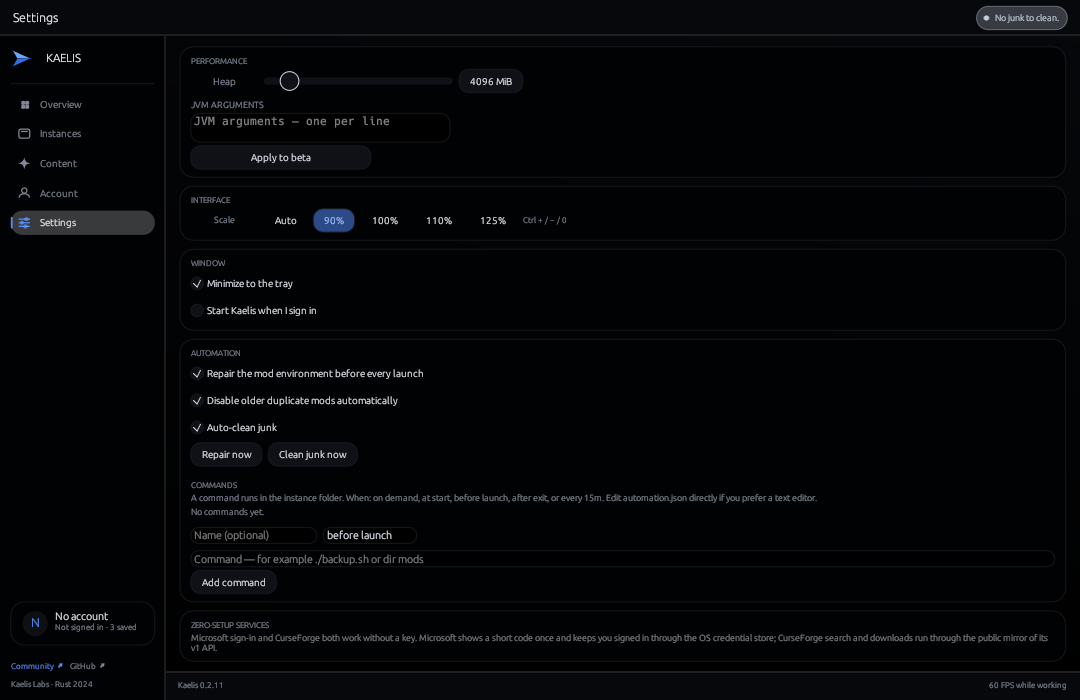
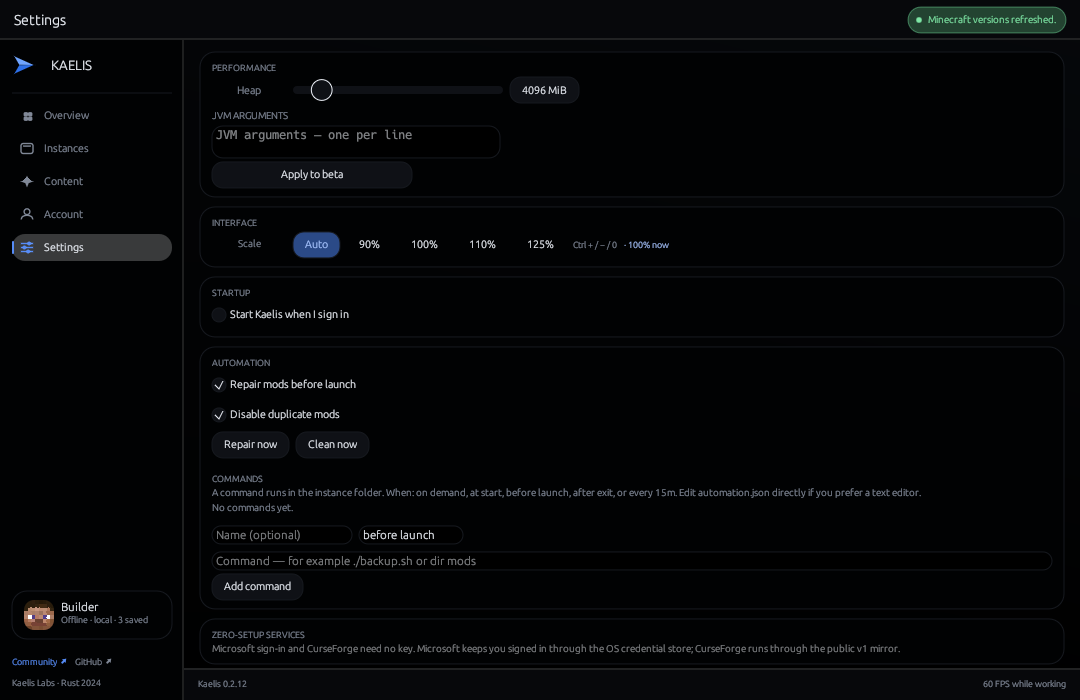
Make tray minimize and junk cleanup permanent, and centre Erase
Tray minimize and Auto Erase Junk are signatures of Kaelis, so a settings
switch that could turn them off was the wrong shape: the two fields are gone,
old saved "off" values are ignored, and both behaviours now always run. The
same edit retires the empty non-Windows window card and shortens the Settings
copy.

The Mod Browse action row top-aligned its labels, so "Erase" sat above the
middle of its capsule while "Install" was centred. Six pixels of vertical
control padding centre both without stretching the row into the scroll area.
The five product screenshots are recaptured from 0.2.12.

🤖 Generated with Codebuff

diff --git a/site/index.html b/site/index.html
@@ -40,7 +40,7 @@
         "applicationSubCategory": "Minecraft launcher",
         "operatingSystem": "Windows 10, Windows 11, macOS 11, Linux",
         "processorRequirements": "x86_64 or arm64",
-        "softwareVersion": "0.2.11",
+        "softwareVersion": "0.2.12",
         "softwareRequirements": "Rust 1.85+ to build from source; Java is provisioned automatically",
         "downloadUrl": "https://fuvji.github.io/kaelis/downloads/Kaelis-Portable.zip",
         "installUrl": "https://fuvji.github.io/kaelis/#downloads",
@@ -424,7 +424,7 @@
     <div class="shell" id="top">
       <section class="hero" aria-labelledby="hero-title">
         <div>
-          <span class="eyebrow"><i></i>v0.2.11 · Windows · macOS · Linux</span>
+          <span class="eyebrow"><i></i>v0.2.12 · Windows · macOS · Linux</span>
           <h1 id="hero-title">Minecraft,<br><em>composed.</em></h1>
           <p class="lede">Instances, mods, packs, shaders, and accounts in one native workspace. Files stay local. Nothing runs in the background.</p>
           <div class="hero-actions">
@@ -598,7 +598,7 @@
         </div>
 
         <div class="downloads-foot">
-          <span><b style="color:var(--text)">New in 0.2.11</b> · Instance cards no longer say <b style="color:var(--text)">Never played</b>: an unstarted instance shows only what it contains, with counts that read naturally (<b style="color:var(--text)">1 pack · 1 world</b>, never <i>1 packs</i>). Auto Erase Junk also clears ReplayMod's frame cache, the stray Forge and NeoForge root logs, and Windows' <code>ehthumbs.db</code> thumbnail cache — while saves, recordings, mods, configs, screenshots, and unknown folders always survive. The freed chip keeps the content row on one baseline, so a long instance list scans faster. Everything from 0.2.10 remains: one-click checksum-verified self-update on Windows, the dark three-action tray, tray minimize, the shared file store, and an event-driven 0.00% idle cost.</span>
+          <span><b style="color:var(--text)">New in 0.2.12</b> · Tray minimize and <b style="color:var(--text)">Auto Erase Junk</b> are now permanent parts of Kaelis: the Settings switches are gone, an old saved “off” is ignored, and both always run. On Windows, minimize hides to the tray; junk is erased at every start and after every game. The Mod Browse <b style="color:var(--text)">Erase</b> label now sits exactly in the centre of its capsule, the action row centres Install and Erase together, and Settings copy is shorter. Everything from 0.2.11 remains: quieter instance cards, ReplayMod and Forge log cleanup, one-click checksum-verified Windows updates, the dark tray, the shared file store, and 0.00% idle cost.</span>
           <span>Every tag builds all three platforms in CI and publishes checksums.</span>
           <a href="downloads/KAELIS-LINKS.txt">URL &amp; install index ↗</a>
           <a href="https://github.com/fuvji/kaelis/releases/latest" rel="noreferrer">All releases ↗</a>

diff --git a/crates/kaelis-gui/src/lib.rs b/crates/kaelis-gui/src/lib.rs
@@ -1112,10 +1112,6 @@ pub struct KaelisApp {
     modpack_task: Option<tokio::task::JoinHandle<()>>,
     /// Invalidates progress and completion events from a cancelled import.
     modpack_generation: u64,
-    /// Remove logs, crash reports, and staging files at every launch.
-    auto_clean_junk: bool,
-    /// The title-bar minimize button hides the window to the tray.
-    minimize_to_tray: bool,
     /// A per-user sign-in entry starts Kaelis hidden in the tray.
     launch_at_startup: bool,
     /// The window is hidden because a game started, not by the user. Only this
@@ -1268,7 +1264,6 @@ impl KaelisApp {
         // be installed before that menu is created.
         platform::enable_dark_menus();
         let launcher_settings = load_settings();
-        platform::set_minimize_to_tray(launcher_settings.minimize_to_tray);
         if launcher_settings.launch_at_startup {
             // A portable folder that was moved leaves the old path behind;
             // rewriting it at start keeps the sign-in entry pointing here.
@@ -1538,8 +1533,6 @@ impl KaelisApp {
             modpack_detail: String::new(),
             modpack_task: None,
             modpack_generation: 0,
-            auto_clean_junk: launcher_settings.auto_clean,
-            minimize_to_tray: launcher_settings.minimize_to_tray,
             launch_at_startup: launcher_settings.launch_at_startup,
             update_report: None,
             updates_busy: false,
@@ -1563,9 +1556,7 @@ impl KaelisApp {
         if app.accounts.is_empty() {
             app.scan_for_accounts(&creation.egui_ctx, false);
         }
-        if app.auto_clean_junk {
-            app.clean_junk_now(creation.egui_ctx.clone());
-        }
+        app.clean_junk_now(creation.egui_ctx.clone());
         app.refresh_instance_cards();
         if let Some(id) = app.selected_instance.clone() {
             app.select_instance(&id);
@@ -3239,9 +3230,6 @@ impl KaelisApp {
     /// Sweep one instance once its game has exited, so the session's logs,
     /// caches, and crash dumps never outlive the process that wrote them.
     fn clean_finished_instance(&self, instance_id: &str, context: &egui::Context) {
-        if !self.auto_clean_junk {
-            return;
-        }
         let Some(root) = self
             .instances
             .iter()
@@ -3763,8 +3751,6 @@ impl KaelisApp {
             account_mode: Some(self.account_mode),
             auto_repair: self.auto_repair_before_launch,
             auto_resolve_duplicates: self.auto_resolve_duplicates,
-            auto_clean: self.auto_clean_junk,
-            minimize_to_tray: self.minimize_to_tray,
             launch_at_startup: self.launch_at_startup,
             content_kind: self.content_kind,
             offline_account: self
@@ -9344,6 +9330,12 @@ impl KaelisApp {
                                 }
                             });
                             ui.with_layout(egui::Layout::right_to_left(egui::Align::Min), |ui| {
+                                // A top-aligned row places a button label four
+                                // pixels below its box top, which lifts every
+                                // action off the capsule's centre line. Six
+                                // pixels of vertical padding centre the ink in
+                                // the 26 px control without stretching the row.
+                                ui.spacing_mut().button_padding.y = 6.0;
                                 // One action per row: Install, or Erase once the
                                 // project is present. Erasing flips the row back
                                 // to Install on the next scan.
@@ -10968,25 +10960,15 @@ impl KaelisApp {
                 }
             }
         });
-        ui.add_space(6.0);
-        Self::glass_frame().show(ui, |ui| {
-            ui.set_width(ui.available_width());
-            section_label(ui, "WINDOW");
-            if cfg!(windows) {
-                if ui
-                    .checkbox(&mut self.minimize_to_tray, "Minimize to the tray")
-                    .on_hover_text(
-                        "The title-bar minimize button hides Kaelis to the notification area and gives its pages back. Turn this off to minimize to the taskbar instead.",
-                    )
-                    .changed()
-                {
-                    platform::set_minimize_to_tray(self.minimize_to_tray);
-                    save_automation = true;
-                }
+        if cfg!(windows) {
+            ui.add_space(6.0);
+            Self::glass_frame().show(ui, |ui| {
+                ui.set_width(ui.available_width());
+                section_label(ui, "STARTUP");
                 if ui
                     .checkbox(&mut self.launch_at_startup, "Start Kaelis when I sign in")
                     .on_hover_text(
-                        "Adds one per-user startup entry. Kaelis opens hidden in the tray, so signing in never shows a window or a splash screen.",
+                        "One per-user entry opens Kaelis hidden in the tray. No service and no delay.",
                     )
                     .changed()
                 {
@@ -11001,16 +10983,8 @@ impl KaelisApp {
                         }
                     }
                 }
-            } else {
-                ui.label(
-                    egui::RichText::new(
-                        "Tray minimize and sign-in startup are Windows features; on this host the window uses the system tray and login items.",
-                    )
-                    .size(9.5)
-                    .color(MUTED),
-                );
-            }
-        });
+            });
+        }
         ui.add_space(6.0);
         Self::glass_frame().show(ui, |ui| {
             ui.set_width(ui.available_width());
@@ -11018,32 +10992,16 @@ impl KaelisApp {
             if ui
                 .checkbox(
                     &mut self.auto_repair_before_launch,
-                    "Repair the mod environment before every launch",
+                    "Repair mods before launch",
                 )
-                .on_hover_text(
-                    "Scans the instance's mods, installs missing required mods (for example ukulib for uku's Armor HUD), then launches.",
-                )
+                .on_hover_text("Installs missing required mods before the JVM starts.")
                 .changed()
             {
                 save_automation = true;
             }
             if ui
-                .checkbox(
-                    &mut self.auto_resolve_duplicates,
-                    "Disable older duplicate mods automatically",
-                )
-                .on_hover_text(
-                    "Keeps the newest jar when a mod id is duplicated.",
-                )
-                .changed()
-            {
-                save_automation = true;
-            }
-            if ui
-                .checkbox(&mut self.auto_clean_junk, "Auto-clean junk")
-                .on_hover_text(
-                    "Clears logs, crash dumps, loader caches, interrupted downloads, launcher leftovers, and typed-command history at launch and after every game. Saves, mods, configs, screenshots, and folders Kaelis does not recognise are never touched.",
-                )
+                .checkbox(&mut self.auto_resolve_duplicates, "Disable duplicate mods")
+                .on_hover_text("Keeps the newest jar when two mods share an id.")
                 .changed()
             {
                 save_automation = true;
@@ -11053,10 +11011,8 @@ impl KaelisApp {
                     self.repair_mod_environment(ui.ctx().clone());
                 }
                 if ui
-                    .button("Clean junk now")
-                    .on_hover_text(
-                        "Clear known junk now. Unknown folders are kept.",
-                    )
+                    .button("Clean now")
+                    .on_hover_text("Erase known junk now. Unknown folders stay.")
                     .clicked()
                 {
                     self.clean_junk_now(ui.ctx().clone());
@@ -11075,7 +11031,7 @@ impl KaelisApp {
             section_label(ui, "ZERO-SETUP SERVICES");
             ui.label(
                 egui::RichText::new(
-                    "Microsoft sign-in and CurseForge both work without a key. Microsoft shows a short code once and keeps you signed in through the OS credential store; CurseForge search and downloads run through the public mirror of its v1 API.",
+                    "Microsoft sign-in and CurseForge need no key. Microsoft keeps you signed in through the OS credential store; CurseForge runs through the public v1 mirror.",
                 )
                 .small()
                 .weak(),
@@ -11243,6 +11199,17 @@ impl eframe::App for KaelisApp {
             && std::env::var_os("KAELIS_SCREENSHOT_PASTE").is_some()
         {
             self.paste_clipboard_artwork(context);
+        }
+        // Development-only fixture: a capture window cannot reliably own
+        // keyboard focus, so a Content query can be requested here and still
+        // travel the real search path.
+        if self.screenshot_path.is_some()
+            && self.screenshot_frame == 1
+            && let Ok(query) = std::env::var("KAELIS_SCREENSHOT_QUERY")
+            && !query.trim().is_empty()
+        {
+            self.mod_query = query;
+            self.start_mod_search(context.clone());
         }
         // Development-only fixture: a native file picker cannot be scripted
         // from a capture run, so the icon it would return can be supplied here
@@ -14160,7 +14127,6 @@ mod tests {
             with_zoom.content_kind,
             kaelis_api::mods::ContentKind::Modpack
         );
-        assert!(!with_zoom.auto_clean);
     }
 
     #[test]

diff --git a/crates/kaelis-api/src/accounts.rs b/crates/kaelis-api/src/accounts.rs
@@ -116,11 +116,6 @@ pub struct LauncherSettings {
     /// cleanup is provably safe.
     #[serde(default = "default_auto_repair")]
     pub auto_resolve_duplicates: bool,
-    /// Delete logs, caches, crash dumps, extracted natives, and staging files
-    /// from every instance at launch and after each game exits. Saves, mods,
-    /// and configuration are never included.
-    #[serde(default = "default_auto_repair")]
-    pub auto_clean: bool,
     /// Last Content channel, so the tab reopens where the user left it.
     #[serde(default)]
     pub content_kind: ContentKind,
@@ -143,11 +138,6 @@ pub struct LauncherSettings {
     /// user's Ctrl +/- (or the Settings control) replaces it.
     #[serde(default)]
     pub ui_scale: f32,
-    /// The title-bar minimize button hides the window to the notification
-    /// area instead of the taskbar. On by default: a launcher is a background
-    /// app and does not need a taskbar slot while it is not in use.
-    #[serde(default = "default_auto_repair")]
-    pub minimize_to_tray: bool,
     /// Start Kaelis when the user signs in, already hidden in the tray. The
     /// shortcut is a per-user registry value, so no service or elevation is
     /// involved and login is not delayed by a task scheduler.
@@ -165,13 +155,11 @@ impl Default for LauncherSettings {
             last_account: String::new(),
             auto_repair: default_auto_repair(),
             auto_resolve_duplicates: default_auto_repair(),
-            auto_clean: default_auto_repair(),
             content_kind: ContentKind::Mod,
             offline_account: String::new(),
             account_mode: None,
             accounts: Vec::new(),
             ui_scale: 0.0,
-            minimize_to_tray: true,
             launch_at_startup: false,
         }
     }
@@ -436,16 +424,17 @@ mod tests {
     }
 
     #[test]
-    fn window_preferences_default_to_tray_and_no_startup() {
+    fn retired_window_flags_do_not_break_old_settings() {
         let defaults = LauncherSettings::default();
-        assert!(defaults.minimize_to_tray);
         assert!(!defaults.launch_at_startup);
-        // Files written by earlier versions have neither field. Missing must
-        // mean "tray on, sign-in off", not "reset the user's window habits".
-        let legacy: LauncherSettings =
-            serde_json::from_str("{\"last_account\":\"\"}").expect("legacy settings");
-        assert!(legacy.minimize_to_tray);
-        assert!(!legacy.launch_at_startup);
+        // Files written before tray minimize and junk cleanup became core
+        // behaviour still carry both keys. They must load and be ignored, so
+        // an old "off" cannot disable either one.
+        let legacy: LauncherSettings = serde_json::from_str(
+            "{\"auto_clean\":false,\"minimize_to_tray\":false,\"launch_at_startup\":true}",
+        )
+        .expect("legacy settings");
+        assert!(legacy.launch_at_startup);
     }
 
     #[test]

diff --git a/crates/kaelis-gui/src/platform.rs b/crates/kaelis-gui/src/platform.rs
@@ -15,10 +15,6 @@ use std::sync::atomic::{AtomicBool, Ordering};
 /// never has to enumerate windows just to answer one question.
 static WINDOW_SHOWN: AtomicBool = AtomicBool::new(true);
 
-/// Honour the title-bar minimize button by moving the window to the tray.
-/// The setting is applied live; the window procedure reads this atomic.
-static MINIMIZE_TO_TRAY: AtomicBool = AtomicBool::new(true);
-
 /// Set while a sign-in launch is trying to stay invisible; any user restore
 /// clears it so the startup watcher cannot hide the window again.
 static STARTUP_SUPPRESS: AtomicBool = AtomicBool::new(false);
@@ -82,10 +78,6 @@ pub(crate) fn begin_hidden_start(context: egui::Context) {
 #[cfg(not(windows))]
 pub(crate) fn begin_hidden_start(context: egui::Context) {
     let _ = context;
-}
-
-pub(crate) fn set_minimize_to_tray(enabled: bool) {
-    MINIMIZE_TO_TRAY.store(enabled, Ordering::Relaxed);
 }
 
 /// Dark native menus.
@@ -167,10 +159,7 @@ pub(crate) fn install_window_hooks() {
         _id: usize,
         _data: usize,
     ) -> LRESULT {
-        if message == WM_SYSCOMMAND
-            && (wparam as u32 & 0xFFF0) == SC_MINIMIZE
-            && MINIMIZE_TO_TRAY.load(Ordering::Relaxed)
-        {
+        if message == WM_SYSCOMMAND && (wparam as u32 & 0xFFF0) == SC_MINIMIZE {
             // SAFETY: `window` is the handle this subclass was attached to.
             unsafe { ShowWindow(window, SW_HIDE) };
             WINDOW_SHOWN.store(false, Ordering::Relaxed);

diff --git a/README.md b/README.md
@@ -1,6 +1,6 @@
 # Kaelis - Fastest & Lightest Minecraft Launcher
 
-![Version](https://img.shields.io/badge/version-0.2.11-70a5ff)
+![Version](https://img.shields.io/badge/version-0.2.12-70a5ff)
 ![Platforms](https://img.shields.io/badge/platforms-Windows%20%7C%20macOS%20%7C%20Linux-2e70e8)
 ![License](https://img.shields.io/badge/license-MIT-8b949e)
 ![Idle CPU](https://img.shields.io/badge/idle%20CPU-0.00%25-3fb950)
@@ -19,7 +19,7 @@ keep that library clean, correct, and fast on their own.
 
 | Feature | What it does |
 | --- | --- |
-| **Auto Erase Junk** | Clears logs, crash dumps, loader caches (including Architectury Transformer scratch), mod download caches, typed command history, extracted natives, stale server packs, heap dumps, interrupted downloads even when they keep their real name, OS thumbnail files inside content folders, and stale official-launcher state (including its saved Microsoft profile and credential) at every start and after every game — capped so it can never stall startup. Folders it does not recognise are always kept |
+| **Auto Erase Junk** | Clears logs, crash dumps, loader caches (including Architectury Transformer scratch), mod download caches, typed command history, extracted natives, stale server packs, heap dumps, interrupted downloads even when they keep their real name, OS thumbnail files inside content folders, and stale official-launcher state (including its saved Microsoft profile and credential) at every start and after every game — capped so it can never stall startup. Always on; an old settings file cannot disable it. Folders it does not recognise are always kept |
 | **One copy of the game** | Every verified download — libraries, assets, client jar, Java runtime — is hard-linked into a content-addressed store, so a second instance of the same version occupies a few extra MB instead of another 600 MB. Store entries no instance references are pruned automatically |
 | **Auto-repair before launch** | Scans the instance's mods and installs missing required mods (for example `ukulib` for uku's Armor HUD) before the JVM starts |
 | **Auto-disable duplicates** | Keeps the newest jar when two files provide the same mod id, so the older copy cannot crash the game first |
@@ -31,7 +31,7 @@ keep that library clean, correct, and fast on their own.
 | **Runs in parallel, quietly** | Per-instance OS guards let different instances launch together; a smart power governor drops every unfocused game to idle priority within 1.5 s and restores it the moment it is focused, so the game being played owns the CPU |
 | **Reopens, never doubles** | One process, one tray icon: a second launch, a Start-menu click, or the tray icon restores the running window in ~120 ms instead of starting another launcher — including over a fullscreen game |
 | **Hibernates while you play** | Starting a game hides the window and empties its working set, and 90 s unfocused does the same while the window stays open; one tray click restores it, mid-game included |
-| **Tray-first window** | The title-bar minimize button and **Show / Minimize** in the tray hide the launcher to the notification area and give its pages back. The tray icon itself toggles: a click restores a hidden or taskbar-minimised window, and hides a visible one. The native menu is forced dark and is three actions plus one separator |
+| **Tray-first window** | On Windows, the title-bar minimize button and **Show / Minimize** in the tray hide the launcher to the notification area and give its pages back. Always on; there is no switch to turn it off. The tray icon itself toggles: a click restores a hidden or taskbar-minimised window, and hides a visible one. The native menu is forced dark and is three actions plus one separator |
 | **Updates in one click** | One anonymous GitHub request runs in the background after the window is up. When a newer release exists, the footer version links to it and an **Update** action installs the build right there: the download is SHA-256-verified against the same release, the old executable is backed up, and a failed swap rolls back. Nothing downloads or installs on its own |
 | **Starts with Windows** | One optional per-user sign-in entry opens Kaelis hidden in the tray, with no service, scheduled task, splash, or focus steal. Enable or disable it in Settings or with `kaelis --startup on\|off` |
 | **Survives a launcher restart** | A game's process id and creation time are recorded when it spawns, so reopening Kaelis still shows Quit for a game that is running, keeps a second JVM off the same world, and can end that game from the card |
@@ -106,7 +106,22 @@ same machine recorded 362 ms for 0.1.3 on a different day without any change to
 the window path, so a number that looks slower here is the machine, not the
 launcher. The working set and handle count are the figures that stay stable.
 
-## What's new in 0.2.11
+## What's new in 0.2.12
+
+- **Tray minimize and junk cleanup are no longer optional.** Both are core
+  Kaelis behaviour, so Settings no longer offers a switch that can turn either
+  one off. On Windows, minimize always hides to the tray; junk is erased at
+  every start and after every game on every platform. A saved `false` in an
+  older settings file is ignored, so an old file cannot re-enable the clutter.
+- **“Erase” sits in the middle of its capsule.** The content action row used a
+  top-aligned layout, which pushed the label above the button's centre while
+  **Install** sat centred. The row now centres every action, and the destructive
+  button's label is exactly 12 px from each side.
+- **Shorter Settings copy.** The startup entry stands alone under **Startup**,
+  automation labels fit one line, and the service note is one sentence. The
+  retired window and cleanup switches leave no empty card behind.
+
+### From 0.2.11
 
 - **The instance card no longer says “Never played”.** An instance that has
   never been started shows only what it contains: its mod, pack, shader, and
@@ -149,8 +164,9 @@ launcher. The working set and handle count are the figures that stay stable.
   including a window that is minimised to the taskbar.
 - **Minimize means tray.** The title-bar minimize button hides the window and
   trims its working set instead of adding a taskbar button. **Show / Minimize**
-  in the tray does the same, and a single click restores the window. A new
-  Settings toggle, **Minimize to the tray**, turns the title-bar behavior off.
+  in the tray does the same, and a single click restores the window. 0.2.10
+  added a Settings toggle for this; 0.2.12 retired it, so minimize always uses
+  the tray.
 - **The detected loader is a real control-height pill.** Its height is the same
   as the combo box and every button beside it, with the text on the row's
   centre line, so Content no longer shows a short box floating above a toolbar.
